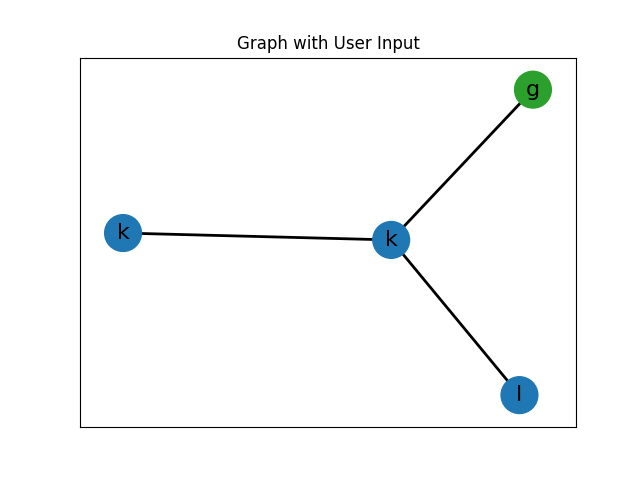
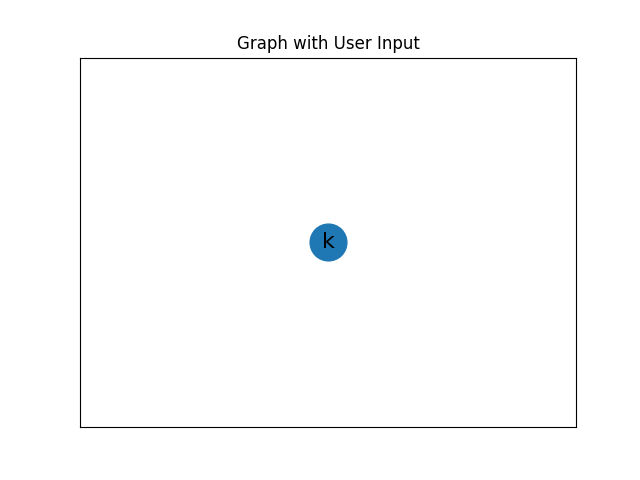
fix division by zero error

diff --git a/gragh_coloring.py b/gragh_coloring.py
@@ -78,7 +78,12 @@ color_limits = get_color_limits(k)
 
 # Map colors to a palette
 color_map = matplotlib.colormaps.get_cmap('tab10')  # Get the colormap
-colors = [color_map(i / (k - 1)) for i in range(k)]  # Generate a list of k colors
+
+# Handle the color generation without division by zero
+if k > 1:
+    colors = [color_map(i / (k - 1)) for i in range(k)]  # Generate a list of k colors
+else:
+    colors = [color_map(0)]  # Only one color
 
 # Assign colors to nodes based on constraints
 node_colors = {}
